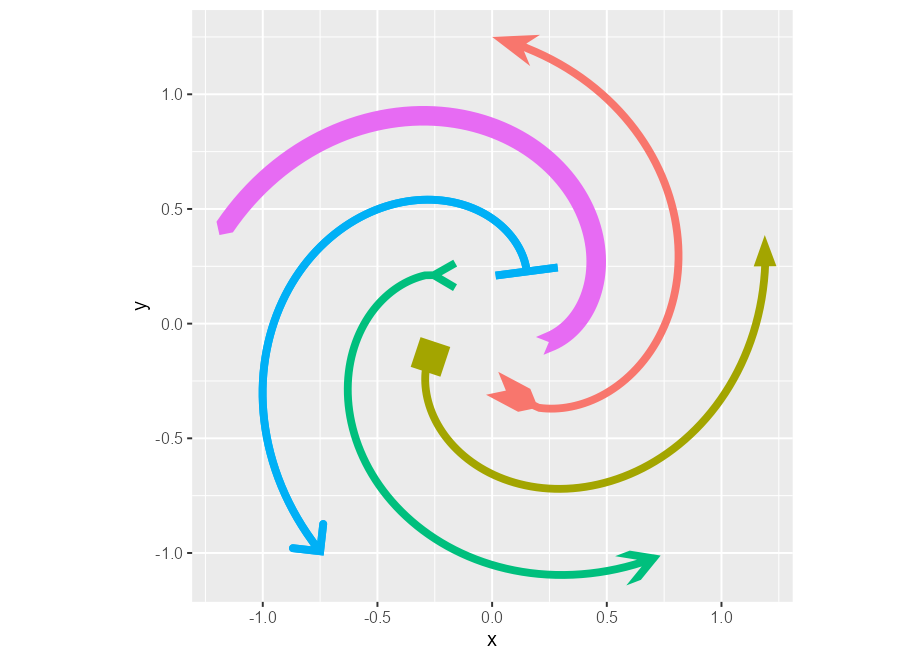
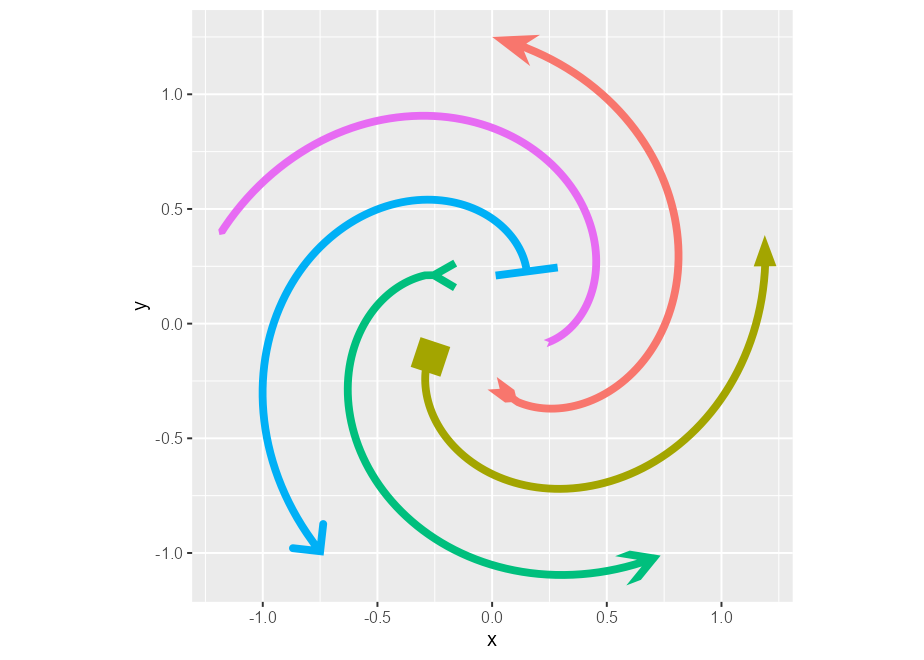
Use scales in readme

Changed region(s): [[0.2424, 0.1515, 0.6667, 0.5455], [0.5152, 0.5758, 0.5758, 0.6364]]

diff --git a/README.md b/README.md
@@ -40,6 +40,7 @@ in contrast to vanilla lines, can have variable widths.
 ``` r
 library(ggarrow)
 #> Loading required package: ggplot2
+#> Warning: package 'ggplot2' was built under R version 4.3.2
 
 p <- ggplot(whirlpool(5), aes(x, y, colour = group)) +
   coord_equal() +
@@ -65,44 +66,21 @@ combining different styles of arrow heads and what are termed ‘arrow
 fins’.
 
 ``` r
-p + 
-  geom_arrow(
-    data = ~ subset(.x, group == 1),
-    linewidth = 2, 
-    arrow_head = arrow_head_wings(),
-    arrow_fins = arrow_fins_feather(),
-    length_fins = unit(10, "mm")
-  ) +
-  geom_arrow(
-    data = ~ subset(.x, group == 2),
-    linewidth = 2, 
-    arrow_head = arrow_head_wings(offset = 20, inset = 70),
-    arrow_fins = arrow_fins_feather(indent = 0, outdent = 0, height = 1)
-  ) +
-  geom_arrow(
-    data = ~ subset(.x, group == 3),
-    linewidth = 2, 
-    arrow_head = arrow_head_line(lineend = "parallel"),
-    arrow_fins = arrow_fins_line()
-  ) +
-  geom_arrow(
-    data = ~ subset(.x, group == 4),
-    linewidth = 2, 
-    arrow_head = arrow_head_line(45, lineend = "round"),
-    arrow_fins = arrow_fins_line(90)
-  ) +
-  geom_arrow(
-    data = ~ subset(.x, group == 4),
-    linewidth = 2, 
-    arrow_head = arrow_head_line(45, lineend = "round"),
-    arrow_fins = arrow_fins_line(90)
-  ) +
-  geom_arrow(
-    data = ~ subset(.x, group == 5),
-    linewidth = 5, 
-    arrow_head = arrow_head_minimal(),
-    arrow_fins = arrow_fins_minimal()
-  )
+p + geom_arrow(aes(arrow_head = group, arrow_fins = group), linewidth = 2) +
+  scale_arrow_head_discrete(values = list(
+    "head_wings",
+    arrow_head_wings(offset = 20, inset = 70),
+    arrow_head_line(lineend = "parallel"),
+    arrow_head_line(45, lineend = "round"),
+    "head_minimal"
+  ), guide = "none") +
+  scale_arrow_fins_discrete(values = list(
+    "fins_feather",
+    arrow_fins_feather(indent = 0, outdent = 0, height = 1),
+    "fins_line",
+    arrow_fins_line(90),
+    "fins_minimal"
+  ), guide = "none")
 ```
 
 <img src="man/figures/README-show_ornaments-1.png" width="80%" style="display: block; margin: auto;" />
@@ -145,8 +123,12 @@ only one outside {ggplot2}’s imports.
 ## Related work
 
 Of course, the {grid} package, on which {ggplot2} is build upon, offers
-some options for arrows. Both the
-[{gggenes}](https://wilkox.org/gggenes/) and
+some options for arrows. The
+[{arrowheadr}](https://github.com/wjschne/arrowheadr) package provides
+some great extensions for arrowheads. The
+[{vwlines}](https://cran.r-project.org/package=vwline) package that
+handles variable widths lines much more graciously than this package.
+Both the [{gggenes}](https://wilkox.org/gggenes/) and
 [{gggenomes}](https://thackl.github.io/gggenomes/) packages use arrows
 in a domain-specific context. For vector field visualisation, there is
 the [{ggquiver}](http://pkg.mitchelloharawild.com/ggquiver/) package.
